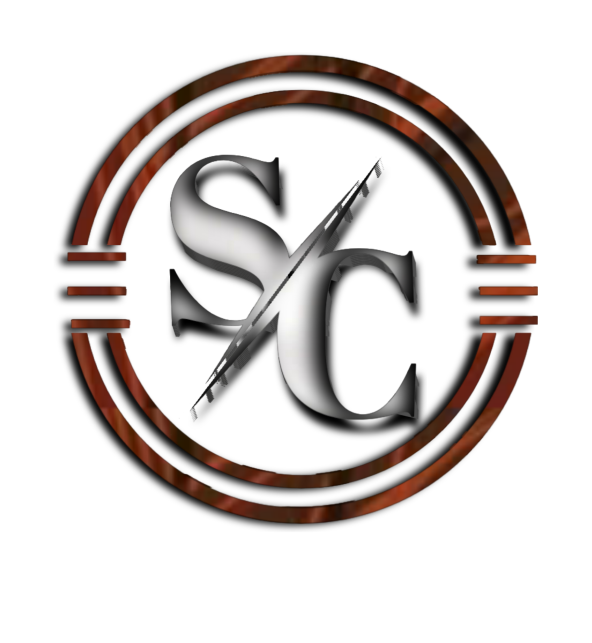
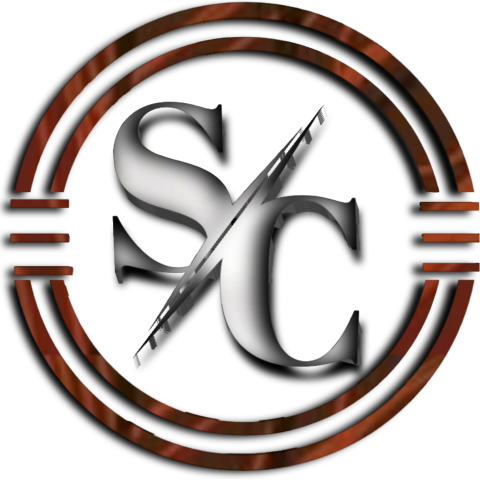
new fills added

diff --git a/smartchuksconcept/works done.html b/smartchuksconcept/works done.html
@@ -65,7 +65,7 @@
               Uturu<br>
               Nigeria <br><br>
               <strong>Phone:</strong> +2349 0328 2918<br>
-              <strong>Email:</strong> bethelonwuka19@gmail.com<br>
+              <strong>Email:</strong> smartchuksconcept@gmail.com<br>
             </p>
           </div>
 
@@ -88,12 +88,11 @@
           </div>
 
           <div class="col-lg-4 col-md-6 footer-newsletter">
-            <h4>Subscribe</h4>
-            <p>For more information about Smartchuks Concept</p>
-            <form action="" method="post">
-              <input type="email" name="email">Email<input type="submit" value="Subscribe">
-            </form>
+            <h4>Our Facebook page</h4>
+            <p>For more information about Smartchuks Concept Graphic</p>
+            <a href="https://web.facebook.com/smartchuks19"><input type="submit" value="FB Page"> <i class="bx bxl-facebook"></a></i>
           </div>
+
 
         </div>
       </div>
@@ -111,9 +110,9 @@
         </div>
       </div>
       <div class="social-links text-center text-md-right pt-3 pt-md-0">
-        <a href="#" class="twitter"><i class="bx bxl-twitter"></i></a>
-        <a href="#" class="facebook"><i class="bx bxl-facebook"></i></a>
-        <a href="#" class="instagram"><i class="bx bxl-instagram"></i></a>
+        <a href="https://twitter.com/BethelOnwuka3?t=kkJ3otEjNPQfUMGYkjFi9g&s=09" class="twitter"><i class="bx bxl-twitter"></i></a>
+        <a href="https://www.facebook.com/chukz.itz" class="facebook"><i class="bx bxl-facebook"></i></a>
+        <a href="https://www.instagram.com/smartchuks19/" class="instagram"><i class="bx bxl-instagram"></i></a>
       </div>
     </div>
   </footer><!-- End Footer -->

diff --git a/smartchuksconcept/about.html b/smartchuksconcept/about.html
@@ -76,7 +76,7 @@
                 <li><i class="bi bi-check-circle"></i> Birthday: 19th July, 2002. <br>
                   <li><i class="bi bi-check-circle"></i> Phone: +234 903 218 2918. <br>
                     <li><i class="bi bi-check-circle"></i> City: Abia State University Uturu, Nigeria. <br>
-                      <li><i class="bi bi-check-circle"></i> Email:bethelonwuka19@gmail.com</li>
+                      <li><i class="bi bi-check-circle"></i> Email: smartchuksconcept@gmail.com</li>
             </ul>
           </div>
         </div>
@@ -115,7 +115,8 @@
       </div>
     </section><!-- End Counts Section -->
 
-   <!-- ======= Footer ======= -->
+   
+  <!-- ======= Footer ======= -->
   <footer id="footer">
 
     <div class="footer-top">
@@ -129,7 +130,7 @@
               Uturu<br>
               Nigeria <br><br>
               <strong>Phone:</strong> +2349 0328 2918<br>
-              <strong>Email:</strong> bethelonwuka19@gmail.com<br>
+              <strong>Email:</strong> smartchuksconcept@gmail.com<br> 
             </p>
           </div>
 
@@ -152,11 +153,9 @@
           </div>
 
           <div class="col-lg-4 col-md-6 footer-newsletter">
-            <h4>Subscribe</h4>
+            <h4>Contact Us</h4>
             <p>For more information about Smartchuks Concept</p>
-            <form action="" method="post">
-              <input type="email" name="email">Email<input type="submit" value="Subscribe">
-            </form>
+             <a href="https:wa.me/message/MDUX5BXSJJS2B1"><input type="submit" value="Contact Us"> <i class="bx bxl-whatsapp"></a></i>
           </div>
 
         </div>

diff --git a/smartchuksconcept/contact.html b/smartchuksconcept/contact.html
@@ -172,12 +172,11 @@
           </div>
 
           <div class="col-lg-4 col-md-6 footer-newsletter">
-            <h4>Subscribe</h4>
+            <h4>Contact Us</h4>
             <p>For more information about Smartchuks Concept</p>
-            <form action="" method="post">
-              <input type="email" name="email">Email<input type="submit" value="Subscribe">
-            </form>
+             <a href="https:wa.me/message/MDUX5BXSJJS2B1"><input type="submit" value="Contact Us"> <i class="bx bxl-whatsapp"></a></i>
           </div>
+
 
         </div>
       </div>
